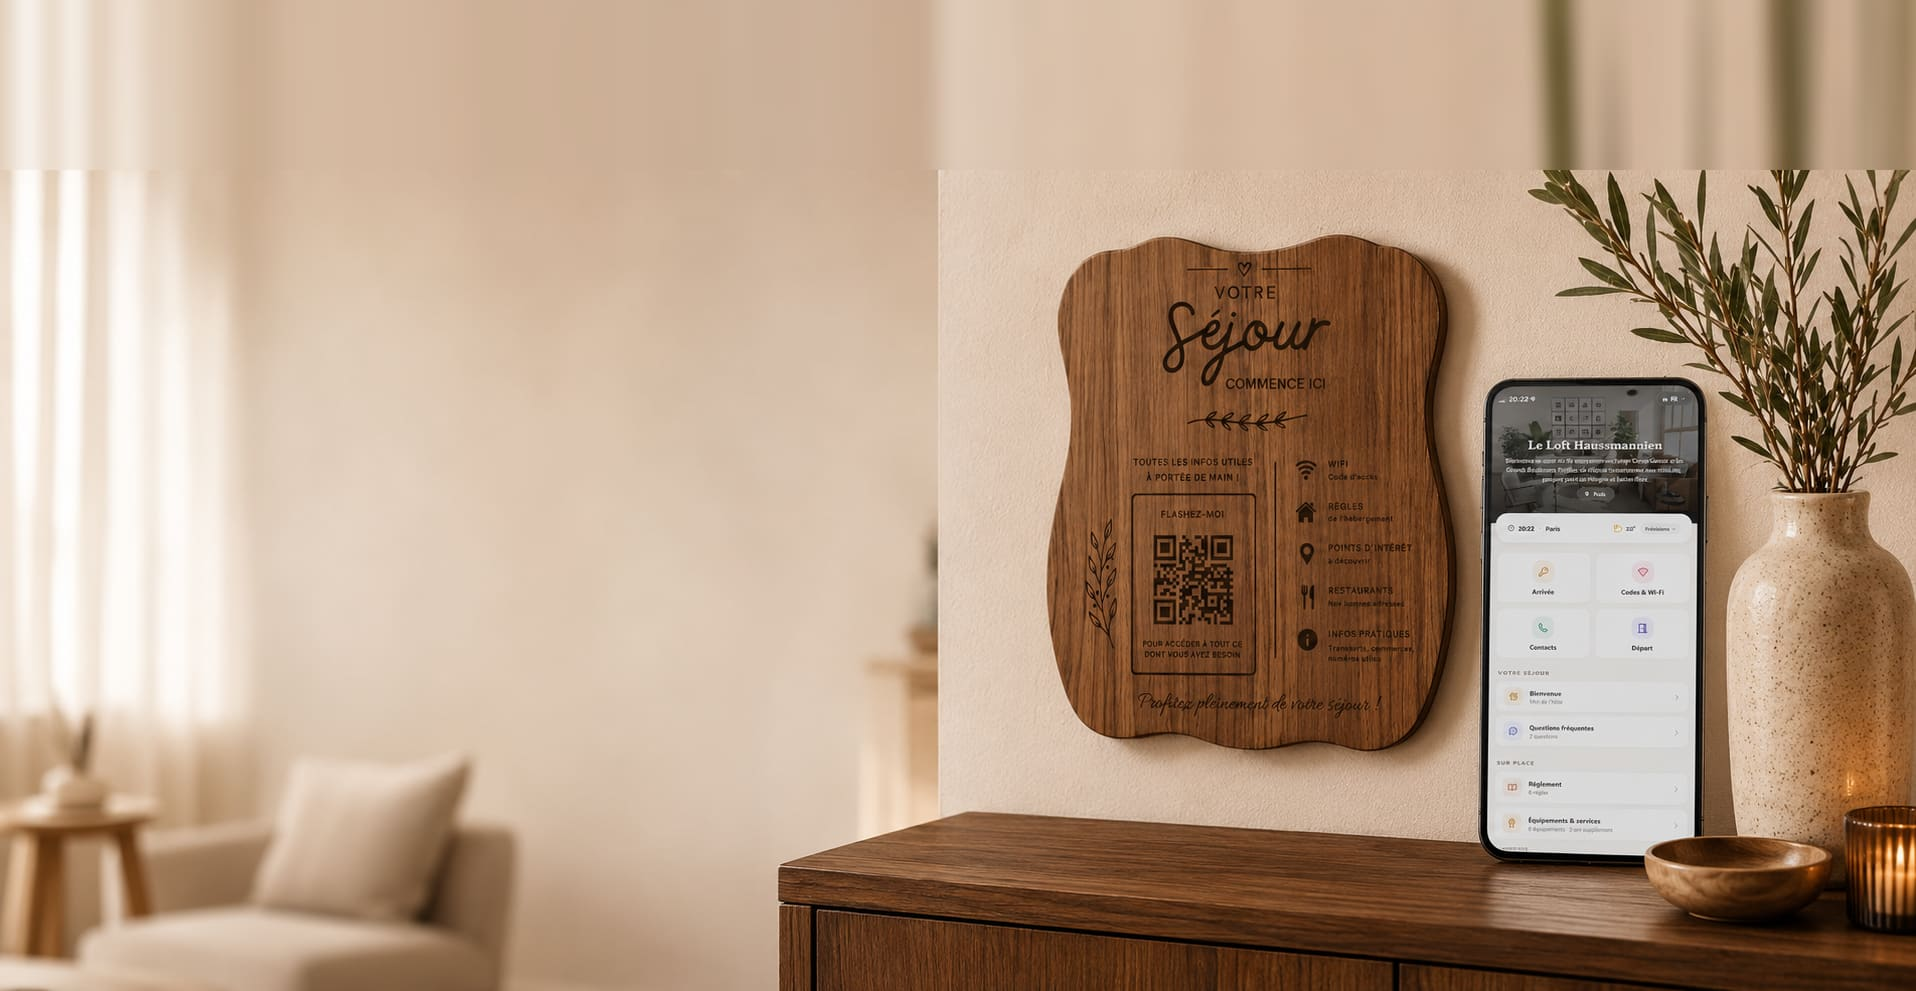
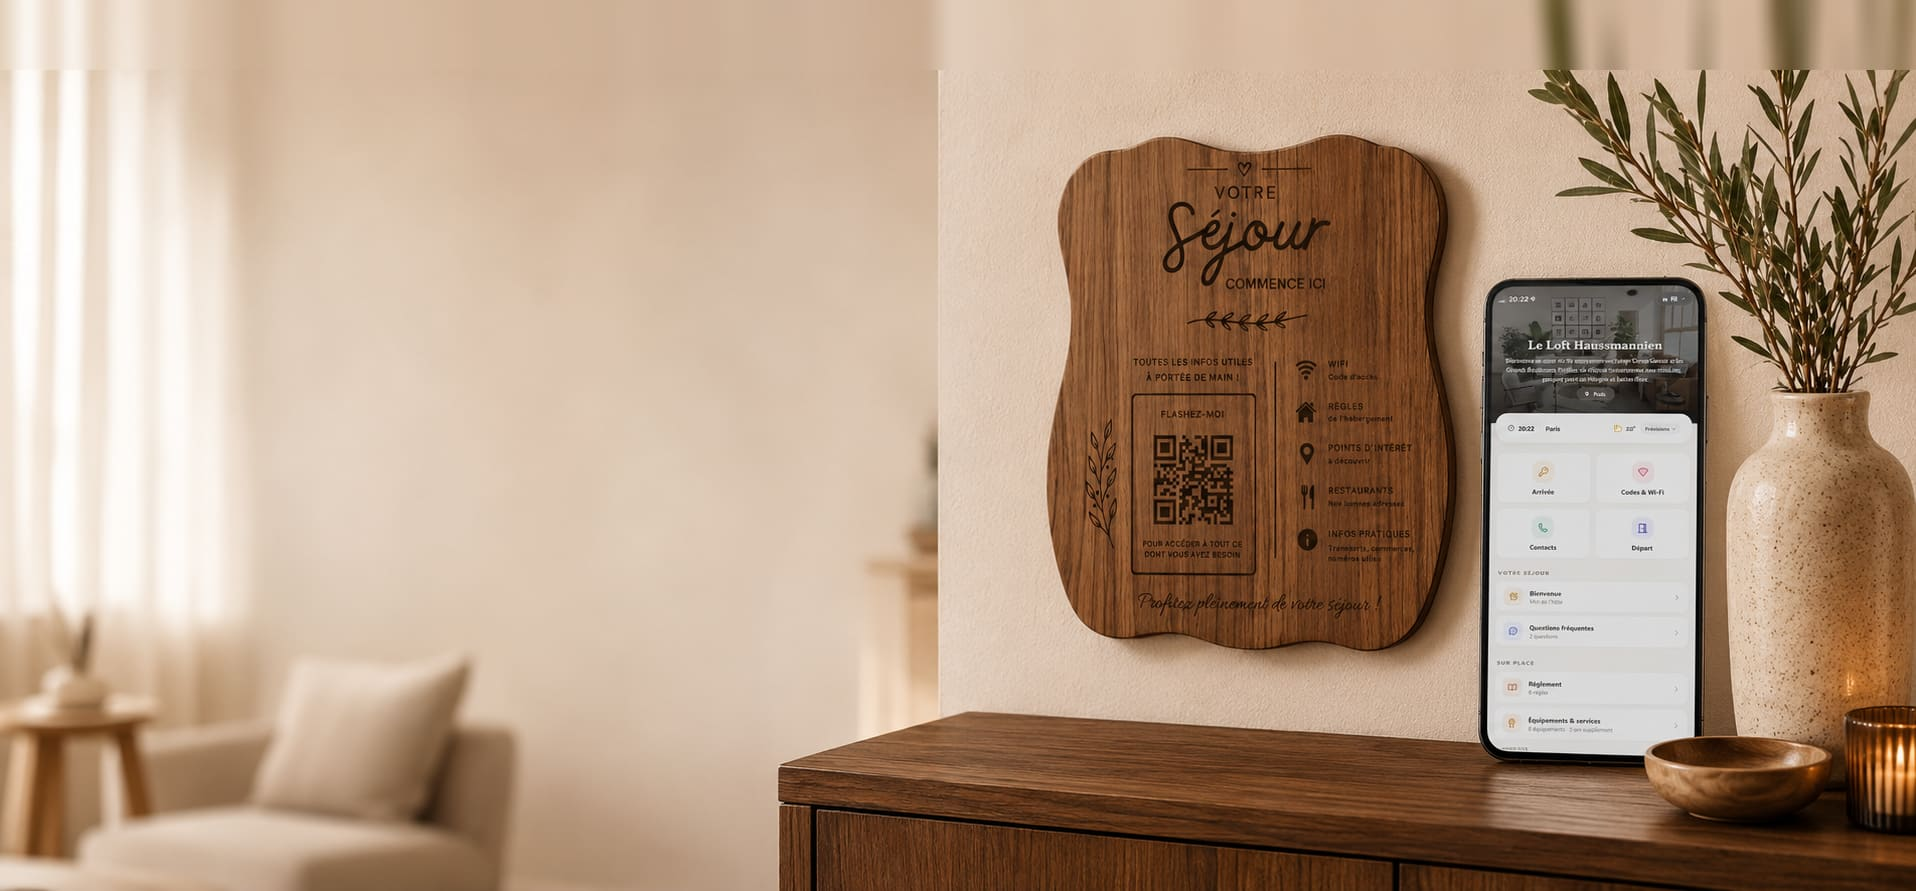
fix: la formule décide du gabarit, et la bascule vers le Confort aboutit
Deux défauts que la question « est-ce que la bascule marche ? » a mis au
jour, et qui ne se voyaient pas tant qu'on ne changeait pas de formule.

Le gabarit se choisissait d'abord sur le champ `template`, avec un
troisième gabarit en repli pour les livrets Confort qui ne le portaient
pas. Un livret passé en Confort sans que `template` suive s'affichait
donc dans un design que l'éditeur ne prévisualise nulle part : l'hôte
voyait une page, ses voyageurs en recevaient une autre. La formule décide
désormais, et elle seule — Confort mène au livret de demo-paris.

Et l'invitation « Passer à la formule Confort » ne menait nulle part :
l'ouverture de livret étant idempotente, elle ramenait l'hôte sur son
Essentielle inchangée. Choisir le Confort fait maintenant réellement
basculer le livret existant. Jamais l'inverse : redescendre masquerait du
contenu déjà saisi, cela doit rester une décision explicite.

Vérifié dans le navigateur sur un livret créé de zéro : Essentielle rend
le gabarit Essentiel sans erreur, et après bascule la page publique sert
bien le Confort, y compris lorsque l'ancien champ `template` est resté en
arrière.

diff --git a/src/app/h/[slug]/page.tsx b/src/app/h/[slug]/page.tsx
@@ -2,7 +2,6 @@ import { Metadata } from "next";
 import { notFound } from "next/navigation";
 import { lookupAccommodation, resolveAccommodation } from "@/lib/firebase/admin-firestore";
 import EssentialTemplate from "@/components/templates/EssentialTemplate";
-import ComfortTemplate from "@/components/templates/ComfortTemplate";
 import CleoTemplate from "@/components/templates/CleoTemplate";
 import { Info } from "lucide-react";
 
@@ -77,14 +76,25 @@ export default async function AccommodationPage({ params }: Props) {
     );
   }
 
-  // Le gabarit « Cléo » est le livret nouvelle génération : il est utilisé dès
-  // qu'un livret le demande explicitement, et pour toutes les démos Cléo.
-  if (data.template === "cleo" || data.slug.startsWith("demo-confort") || data.slug === "demo-paris" || data.slug === "demo-biarritz" || data.slug === "demo-chamonix") {
-    return <CleoTemplate data={data} trackingId={data.id} />;
-  }
+  /*
+   * Le gabarit découle de la FORMULE, et d'elle seule.
+   *
+   * La version précédente se fiait d'abord au champ `template`, puis
+   * retombait sur un troisième gabarit pour les livrets Confort qui ne le
+   * portaient pas. Résultat : un livret passé en Confort sans que son
+   * `template` suive s'affichait dans un design que l'éditeur ne
+   * prévisualise nulle part — l'hôte voyait une page, ses voyageurs en
+   * recevaient une autre.
+   *
+   * Confort et démonstrations Confort partagent le livret nouvelle
+   * génération ; l'Essentielle a le sien.
+   */
+  const estDemoConfort =
+    data.slug.startsWith("demo-confort") ||
+    ["demo-paris", "demo-biarritz", "demo-chamonix"].includes(data.slug);
 
-  if (data.offerType === "comfort") {
-    return <ComfortTemplate data={data} />;
+  if (data.offerType === "comfort" || data.template === "cleo" || estDemoConfort) {
+    return <CleoTemplate data={data} trackingId={data.id} />;
   }
 
   return <EssentialTemplate data={data} />;

diff --git a/src/app/creation-actions.ts b/src/app/creation-actions.ts
@@ -75,7 +75,26 @@ export async function ouvrirLivret(
 
   if (!deja.empty) {
     const doc = deja.docs[0];
-    return { id: doc.id, slug: (doc.data() as Accommodation).slug, existant: true };
+    const livretExistant = doc.data() as Accommodation;
+
+    /*
+     * Passage à la formule supérieure.
+     *
+     * Sans cela, cliquer « Passer à la formule Confort » ramenait l'hôte sur
+     * son livret Essentiel inchangé : l'invitation ne menait nulle part. On
+     * ne redescend JAMAIS automatiquement — un retour à l'Essentielle
+     * masquerait du contenu déjà saisi, et cela doit rester une décision
+     * explicite.
+     */
+    if (offre === "comfort" && livretExistant.offerType !== "comfort") {
+      await doc.ref.update({
+        offerType: "comfort",
+        template: "cleo",
+        updatedAt: Date.now(),
+      });
+    }
+
+    return { id: doc.id, slug: livretExistant.slug, existant: true };
   }
 
   const slug = await slugDisponible(email.split("@")[0] || "livret");

diff --git a/src/components/Hero.tsx b/src/components/Hero.tsx
@@ -31,10 +31,10 @@ export default function Hero() {
       {/* Background image with overlay */}
       <div className="absolute inset-0">
         {/*
-          WebP d'abord, JPEG en repli. Le fond reste chargé en priorité :
-          c'est l'image que le visiteur attend. Sur mobile, un recadrage
-          carré de la photo — elle est large, object-cover n'y montrerait
-          qu'un morceau de mur.
+          WebP d'abord, JPEG en repli. La photo a reçu 70 px de mur en plus
+          au-dessus : cadrée au ras, la plaque passait sous le bandeau du
+          menu. Ancrée en haut (object-top), c'est le bas du meuble qui se
+          rogne sur les écrans courts, jamais la plaque.
         */}
         <picture>
           <source media="(max-width: 768px)" type="image/webp" srcSet="/images/newhero-mobile.webp" />
